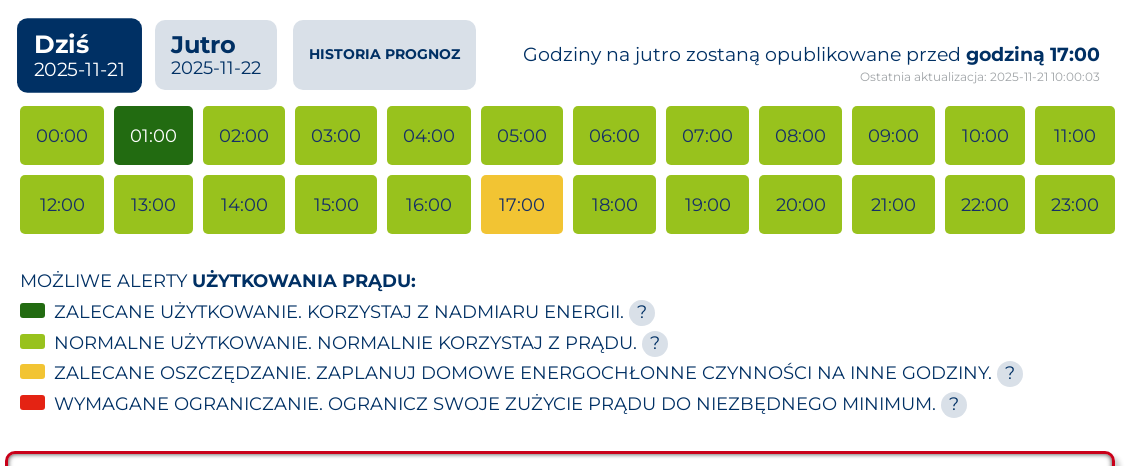
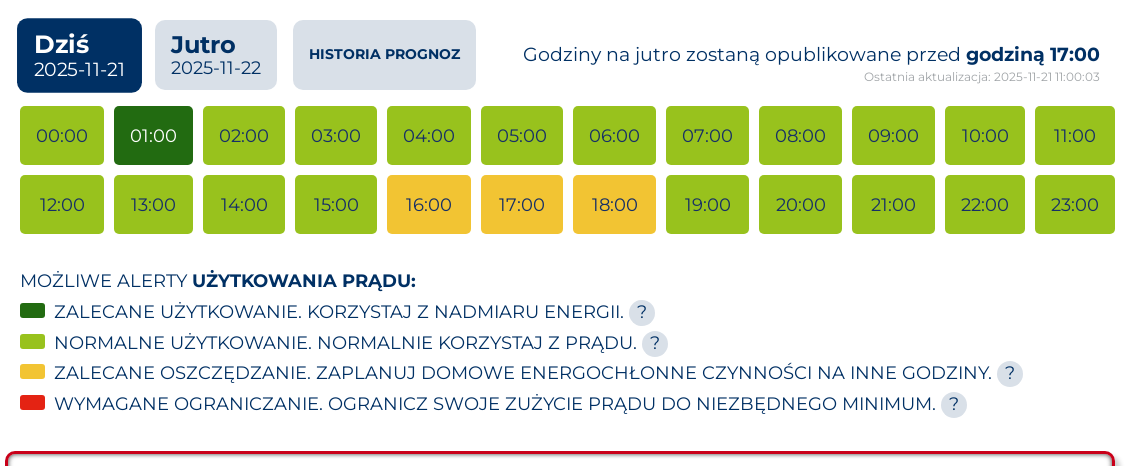
site: update 2025-11-21 11:01 UTC

Changed region(s): [[0.4934, 0.3605, 0.5859, 0.5107], [0.3392, 0.3605, 0.4317, 0.5107], [0.7401, 0.1502, 0.9559, 0.1803]]

diff --git a/site/html_01_tabele_wykresy_g14_today_tomorrow.html b/site/html_01_tabele_wykresy_g14_today_tomorrow.html
@@ -115,7 +115,7 @@
 <section class="hero">
   <div class="kicker">Dane</div>
   <h1>Taryfa G14 — dzisiaj i jutro</h1>
-  <p class="muted">Strona wygenerowana: 2025-11-21 11:01:15</p>
+  <p class="muted">Strona wygenerowana: 2025-11-21 12:01:15</p>
   <p class="muted">Dane G14 (dzisiaj) — ostatnia próbka: 2025-11-21 23:45:00</p>
   <p class="muted">Dane G14 (jutro) — ostatnia próbka: brak danych</p>
 </section>
@@ -128,8 +128,8 @@
   <div class="legend">
     <span class="chip"><span class="box a"></span>&nbsp;<strong>a</strong> avg: 0,605 PLN/kWh</span>
     <span class="chip"><span class="box b"></span>&nbsp;<strong>b</strong> avg: 0,677 PLN/kWh</span>
-    <span class="chip"><span class="box c"></span>&nbsp;<strong>c</strong> avg: 0,932 PLN/kWh</span>
-    <span class="chip"><span class="box d"></span>&nbsp;<strong>d</strong> avg: 1,466 PLN/kWh</span>
+    <span class="chip"><span class="box c"></span>&nbsp;<strong>c</strong> avg: 0,936 PLN/kWh</span>
+    <span class="chip"><span class="box d"></span>&nbsp;<strong>d</strong> avg: 1,639 PLN/kWh</span>
   </div>
 
   
@@ -171,8 +171,8 @@
           <tr class="cat-c"><td>07:15</td><td>07:30</td><td>1,032</td><td>c</td></tr>
           <tr class="cat-c"><td>07:30</td><td>07:45</td><td>1,047</td><td>c</td></tr>
           <tr class="cat-c"><td>07:45</td><td>08:00</td><td>1,067</td><td>c</td></tr>
-          <tr class="cat-d"><td>08:00</td><td>08:15</td><td>1,220</td><td>d</td></tr>
-          <tr class="cat-d"><td>08:15</td><td>08:30</td><td>1,210</td><td>d</td></tr>
+          <tr class="cat-c"><td>08:00</td><td>08:15</td><td>1,220</td><td>c</td></tr>
+          <tr class="cat-c"><td>08:15</td><td>08:30</td><td>1,210</td><td>c</td></tr>
           <tr class="cat-c"><td>08:30</td><td>08:45</td><td>1,170</td><td>c</td></tr>
           <tr class="cat-c"><td>08:45</td><td>09:00</td><td>1,110</td><td>c</td></tr>
           <tr class="cat-c"><td>09:00</td><td>09:15</td><td>1,092</td><td>c</td></tr>
@@ -203,18 +203,18 @@
           <tr class="cat-d"><td>15:15</td><td>15:30</td><td>1,310</td><td>d</td></tr>
           <tr class="cat-d"><td>15:30</td><td>15:45</td><td>1,380</td><td>d</td></tr>
           <tr class="cat-d"><td>15:45</td><td>16:00</td><td>1,530</td><td>d</td></tr>
-          <tr class="cat-d"><td>16:00</td><td>16:15</td><td>1,420</td><td>d</td></tr>
-          <tr class="cat-d"><td>16:15</td><td>16:30</td><td>1,520</td><td>d</td></tr>
-          <tr class="cat-d"><td>16:30</td><td>16:45</td><td>1,560</td><td>d</td></tr>
-          <tr class="cat-d"><td>16:45</td><td>17:00</td><td>1,680</td><td>d</td></tr>
+          <tr class="cat-d"><td>16:00</td><td>16:15</td><td>1,790</td><td>d</td></tr>
+          <tr class="cat-d"><td>16:15</td><td>16:30</td><td>1,890</td><td>d</td></tr>
+          <tr class="cat-d"><td>16:30</td><td>16:45</td><td>1,930</td><td>d</td></tr>
+          <tr class="cat-d"><td>16:45</td><td>17:00</td><td>2,050</td><td>d</td></tr>
           <tr class="cat-d"><td>17:00</td><td>17:15</td><td>1,760</td><td>d</td></tr>
           <tr class="cat-d"><td>17:15</td><td>17:30</td><td>1,790</td><td>d</td></tr>
           <tr class="cat-d"><td>17:30</td><td>17:45</td><td>1,730</td><td>d</td></tr>
           <tr class="cat-d"><td>17:45</td><td>18:00</td><td>1,690</td><td>d</td></tr>
-          <tr class="cat-d"><td>18:00</td><td>18:15</td><td>1,220</td><td>d</td></tr>
-          <tr class="cat-d"><td>18:15</td><td>18:30</td><td>1,180</td><td>d</td></tr>
-          <tr class="cat-c"><td>18:30</td><td>18:45</td><td>1,140</td><td>c</td></tr>
-          <tr class="cat-c"><td>18:45</td><td>19:00</td><td>1,110</td><td>c</td></tr>
+          <tr class="cat-d"><td>18:00</td><td>18:15</td><td>1,590</td><td>d</td></tr>
+          <tr class="cat-d"><td>18:15</td><td>18:30</td><td>1,550</td><td>d</td></tr>
+          <tr class="cat-d"><td>18:30</td><td>18:45</td><td>1,510</td><td>d</td></tr>
+          <tr class="cat-d"><td>18:45</td><td>19:00</td><td>1,480</td><td>d</td></tr>
           <tr class="cat-c"><td>19:00</td><td>19:15</td><td>1,088</td><td>c</td></tr>
           <tr class="cat-c"><td>19:15</td><td>19:30</td><td>1,040</td><td>c</td></tr>
           <tr class="cat-c"><td>19:30</td><td>19:45</td><td>1,044</td><td>c</td></tr>

diff --git a/site/html_02_raport_ze_stanu_teraz.html b/site/html_02_raport_ze_stanu_teraz.html
@@ -18,7 +18,7 @@
   </div>
 
   <section class="hero">
-    <div class="kicker">Ostatni odczyt: 21.11.2025 11:00</div>
+    <div class="kicker">Ostatni odczyt: 21.11.2025 12:00</div>
     <h1>Raport ze stanu teraz</h1>
     <p>
       Taryfy Tauron:
@@ -42,7 +42,7 @@
       <tbody>
         <tr>
           <th style="width:40%;">Czas odczytu</th>
-          <td>21.11.2025 11:00</td>
+          <td>21.11.2025 12:00</td>
         </tr>
         <tr>
           <th>Położenie</th>
@@ -66,7 +66,7 @@
         </tr>
         <tr>
           <th>Zużycie energii dzisiaj [kWh]</th>
-          <td>2.20</td>
+          <td>2.60</td>
         </tr>
         <tr>
           <th>Energia pobrana z sieci dzisiaj [kWh]</th>
@@ -78,11 +78,11 @@
         </tr>
         <tr>
           <th>Zużycie z własnego systemu dzisiaj [kWh]</th>
-          <td>0.80</td>
+          <td>1.20</td>
         </tr>
         <tr>
           <th>Wyjście inwertera dzisiaj [kWh]</th>
-          <td>0.80</td>
+          <td>1.20</td>
         </tr>
       </tbody>
     </table>
@@ -102,15 +102,15 @@
         </tr>
         <tr>
           <th>Moc do domu [W]</th>
-          <td>748</td>
+          <td>870</td>
         </tr>
         <tr>
           <th>Moc z / do sieci [W]</th>
-          <td>748</td>
+          <td>870</td>
         </tr>
         <tr>
           <th>Moc z / do baterii [W]</th>
-          <td>748</td>
+          <td>870</td>
         </tr>
       </tbody>
     </table>
@@ -122,7 +122,7 @@
       <tbody>
         <tr>
           <th style="width:40%;">Stan naładowania baterii SOC [%]</th>
-          <td>83.0</td>
+          <td>78.0</td>
         </tr>
         <tr>
           <th>Tryb pracy baterii</th>
@@ -130,7 +130,7 @@
         </tr>
         <tr>
           <th>Dostępna energia w baterii [kWh]</th>
-          <td>8.70</td>
+          <td>8.20</td>
         </tr>
       </tbody>
     </table>
@@ -150,7 +150,7 @@
         </tr>
         <tr>
           <th>Napięcie [V]</th>
-          <td>234.33</td>
+          <td>238.34</td>
         </tr>
         <tr>
           <th>Prąd [A]</th>

diff --git a/site/html_03_g13_g14_porownanie.html b/site/html_03_g13_g14_porownanie.html
@@ -18,7 +18,7 @@
   </div>
 
   <section class="hero">
-    <div class="kicker">Porównanie kosztów w taryfach G13 i G14, ostatni pomiar dla 15 min. 0 s wykonano 2025-11-21 11:01:16</div>
+    <div class="kicker">Porównanie kosztów w taryfach G13 i G14, ostatni pomiar dla 15 min. 0 s wykonano 2025-11-21 12:01:14</div>
     <h1>Koszt energii</h1>
     <p>
       Taryfy Tauron:
